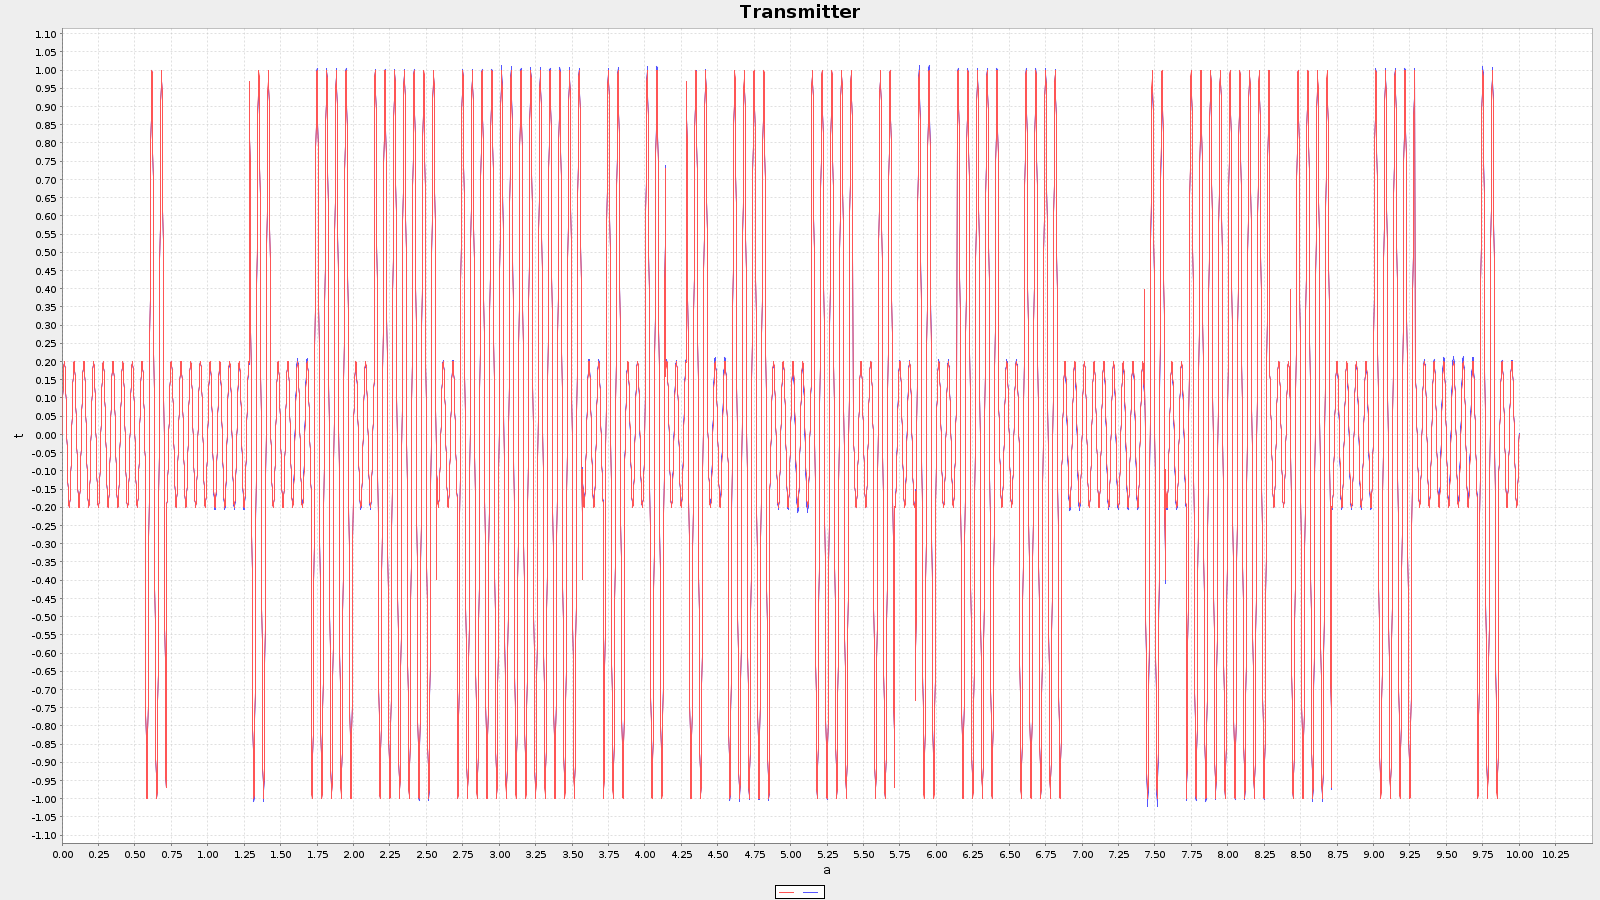
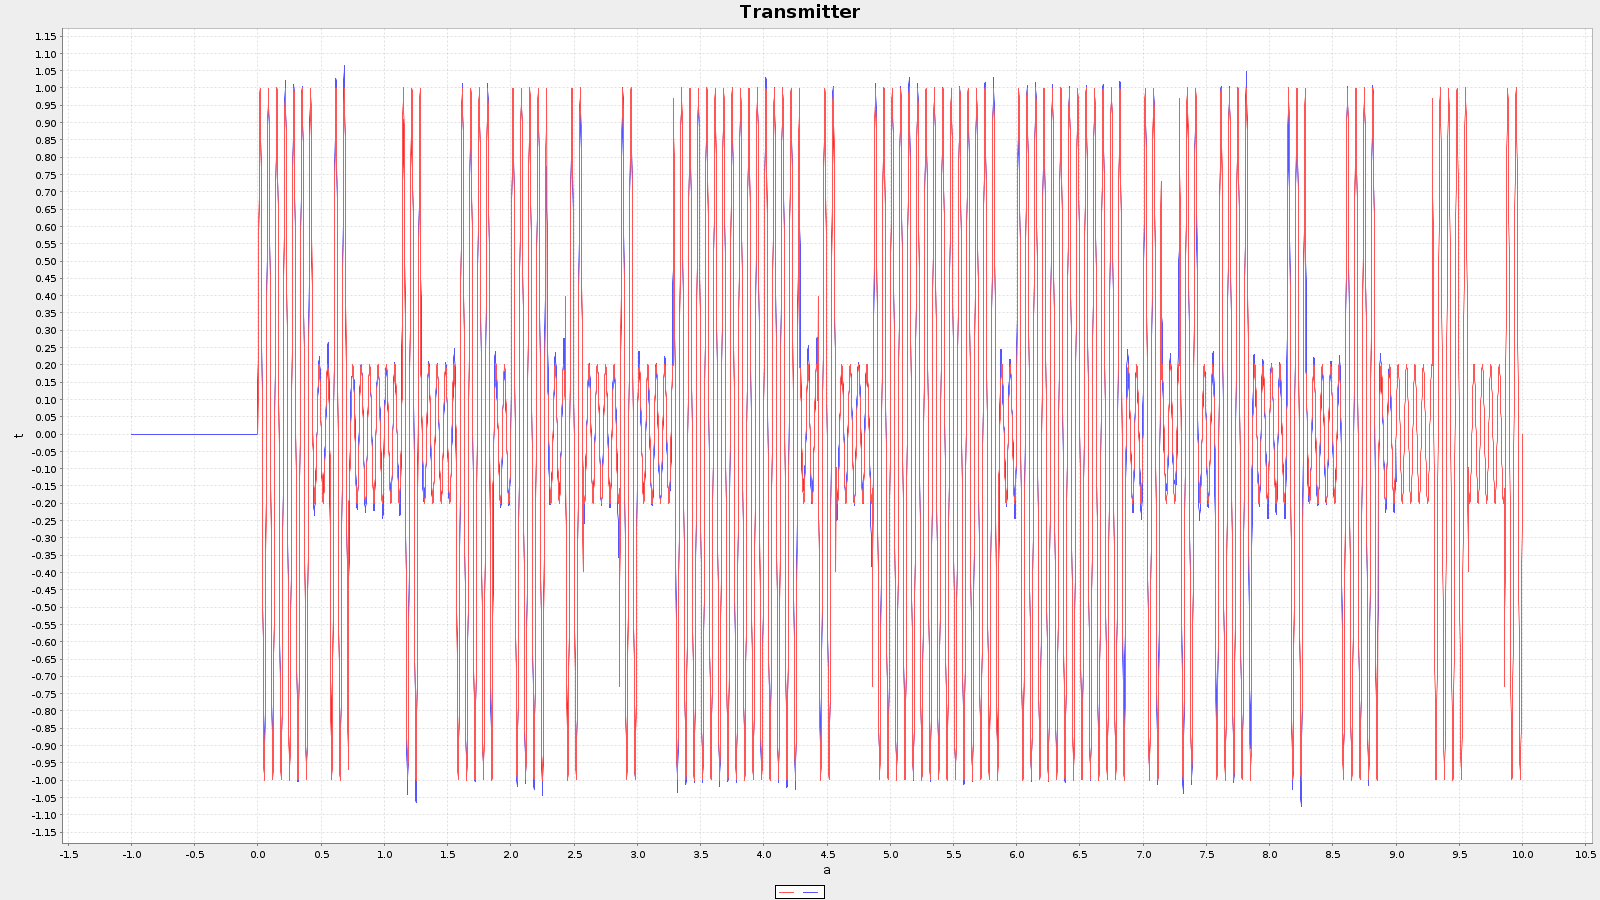
fft now optimised

diff --git a/channel-simulation/java-channel-simulation/src/main/java/main/Filter.java b/channel-simulation/java-channel-simulation/src/main/java/main/Filter.java
@@ -6,14 +6,13 @@ import org.jtransforms.fft.DoubleFFT_1D;
 import java.util.ArrayList;
 
 public class Filter {
-    private int fLow, fHigh;
+    private final int fLow, fHigh;
     // number of samples to store
     private final int BACKLOG_SIZE = 1000;
     private final DoubleFFT_1D fft1D = new DoubleFFT_1D(BACKLOG_SIZE);
     private final ArrayList<Double> samples = new ArrayList<>();
-    private final double[] fft = new double[2 * BACKLOG_SIZE];
-    int fftIdx = 0;
-    private boolean filtering = false;
+    private double[] outputs = new double[BACKLOG_SIZE * 2];
+    private int fftIdx = 0;
 
     private double[] filter(double[] fft) {
         double[] output = new double[fft.length];
@@ -35,50 +34,20 @@ public class Filter {
         return output;
     }
 
-    private void shiftDown(double[] arr) {
-        for (int i = 1; i < arr.length; i++)
-            arr[i-1] = arr[i];
-    }
-
     public double output(double sample) {
-        this.samples.add(sample);
-
-        if (this.fftIdx == BACKLOG_SIZE && !this.filtering) {
-            this.filtering = true;
+        samples.add(sample);
+        if (fftIdx == BACKLOG_SIZE) {
+            // fft of BACKLOG_SIZE oldest samples
+            double[] fft = new double[BACKLOG_SIZE * 2];
+            for (int i = 0; i < BACKLOG_SIZE; i++) fft[i] = samples.remove(0);
             fft1D.realForward(fft);
+            fft = filter(fft);
+            fft1D.complexInverse(fft, false);
+            outputs = fft;
+            fftIdx = 0;
         }
 
-        if (!this.filtering) {
-            this.fft[this.fftIdx++] = sample;
-            return sample;
-        }
-
-        double oldSample = samples.remove(0);
-        for (int k = 0; k < BACKLOG_SIZE; k++) {
-            this.fft[k*2] = (this.fft[k*2] - sample + samples.get(samples.size() - 1)) * Math.cos(2 * Math.PI * k / BACKLOG_SIZE);
-            this.fft[k*2+1] = (this.fft[k*2+1] - sample + samples.get(samples.size() - 1)) * Math.sin(2 * Math.PI * k / BACKLOG_SIZE);
-        }
-        /*for (int k = 0; k < BACKLOG_SIZE; k++) {
-            this.fft[k*2] += sample * Math.cos((-2 * Math.PI * k * (BACKLOG_SIZE - 1)) / BACKLOG_SIZE) - oldSample;
-            this.fft[k*2+1] += sample * Math.sin((-2 * Math.PI * k * (BACKLOG_SIZE - 1)) / BACKLOG_SIZE) - oldSample;
-        }*/
-        /*shiftDown(fft);
-        for (int n = 0; n < samples.size(); n++) {
-            this.fft[fft.length - 2] += sample * Math.cos((-2 * Math.PI * n * (BACKLOG_SIZE - 1)) / BACKLOG_SIZE);
-            this.fft[fft.length - 1] += sample * Math.sin((-2 * Math.PI * n * (BACKLOG_SIZE - 1)) / BACKLOG_SIZE);
-        }*/
-
-        for (int i = 0; i < BACKLOG_SIZE; i++) {
-            this.fft[i] = samples.get(i);
-        }
-        fft1D.realForward(fft);
-
-        double[] filtered = new double[this.fft.length];
-        System.arraycopy(this.fft, 0, filtered, 0, this.fft.length); //filter(this.fft);
-        this.fft1D.complexInverse(filtered, false);
-
-        assert samples.size() == BACKLOG_SIZE;
-        return filtered[filtered.length - 2] / (double) (BACKLOG_SIZE / 2);
+        return outputs[fftIdx++ * 2] / ((double) BACKLOG_SIZE / 2);
     }
 
     public Filter(int fLow, int fHigh) {

diff --git a/channel-simulation/java-channel-simulation/src/main/java/main/Main.java b/channel-simulation/java-channel-simulation/src/main/java/main/Main.java
@@ -87,13 +87,13 @@ public class Main {
     }
 
     public static void main(String[] args) {
-        double noise = 100;
+        double noise = 24;
         double depth = .8, amplitude = 1, carrierF = 15, modulationF = 7;
         ASKModulator modulator = new ASKModulator(depth, amplitude, carrierF, modulationF, new RandomStream());
         Channel channel = new Channel(new Filter(0, 30), modulator.getRMS(), noise);
         Receiver receiver = new Receiver(new ASKDemodulator(depth, amplitude, carrierF, modulationF));
 
-        Simulator simulator = new Simulator(new Transmitter(modulator), receiver, channel, 0, 10, 0.001, false);
+        Simulator simulator = new Simulator(new Transmitter(modulator), receiver, channel, 0, 10, 0.001, true);
 
         Thread t1 = new Thread(() -> {
             while (!receiver.getDemodulator().getDataOut().isClosed()) {

diff --git a/channel-simulation/java-channel-simulation/src/main/java/simulator/Simulator.java b/channel-simulation/java-channel-simulation/src/main/java/simulator/Simulator.java
@@ -28,14 +28,17 @@ public class Simulator {
             double f = transmitter.send(t);
             transmitterOut.add(new XYDataItem(t, f));
             f = channel.output(f);
-            channelOut.add(new XYDataItem(t, f));
+            channelOut.add(new XYDataItem(t - timeStep * 1000, f));
             receiver.receive(f, t);
 
             if (!realtime) continue;
 
             deltaT = sleepTime - (System.nanoTime() - deltaT);
-            if (deltaT < 0) System.out.println(deltaT + " " + (System.nanoTime() - deltaT));
-            Thread.sleep(deltaT / 1_000_000, (int) (sleepTime - deltaT) % 1_000_000);
+            try {
+                Thread.sleep(deltaT / 1_000_000, (int) (sleepTime - deltaT) % 1_000_000);
+            } catch (IllegalArgumentException e) {
+                System.out.println("exceeded timestep");
+            }
         }
 
 
